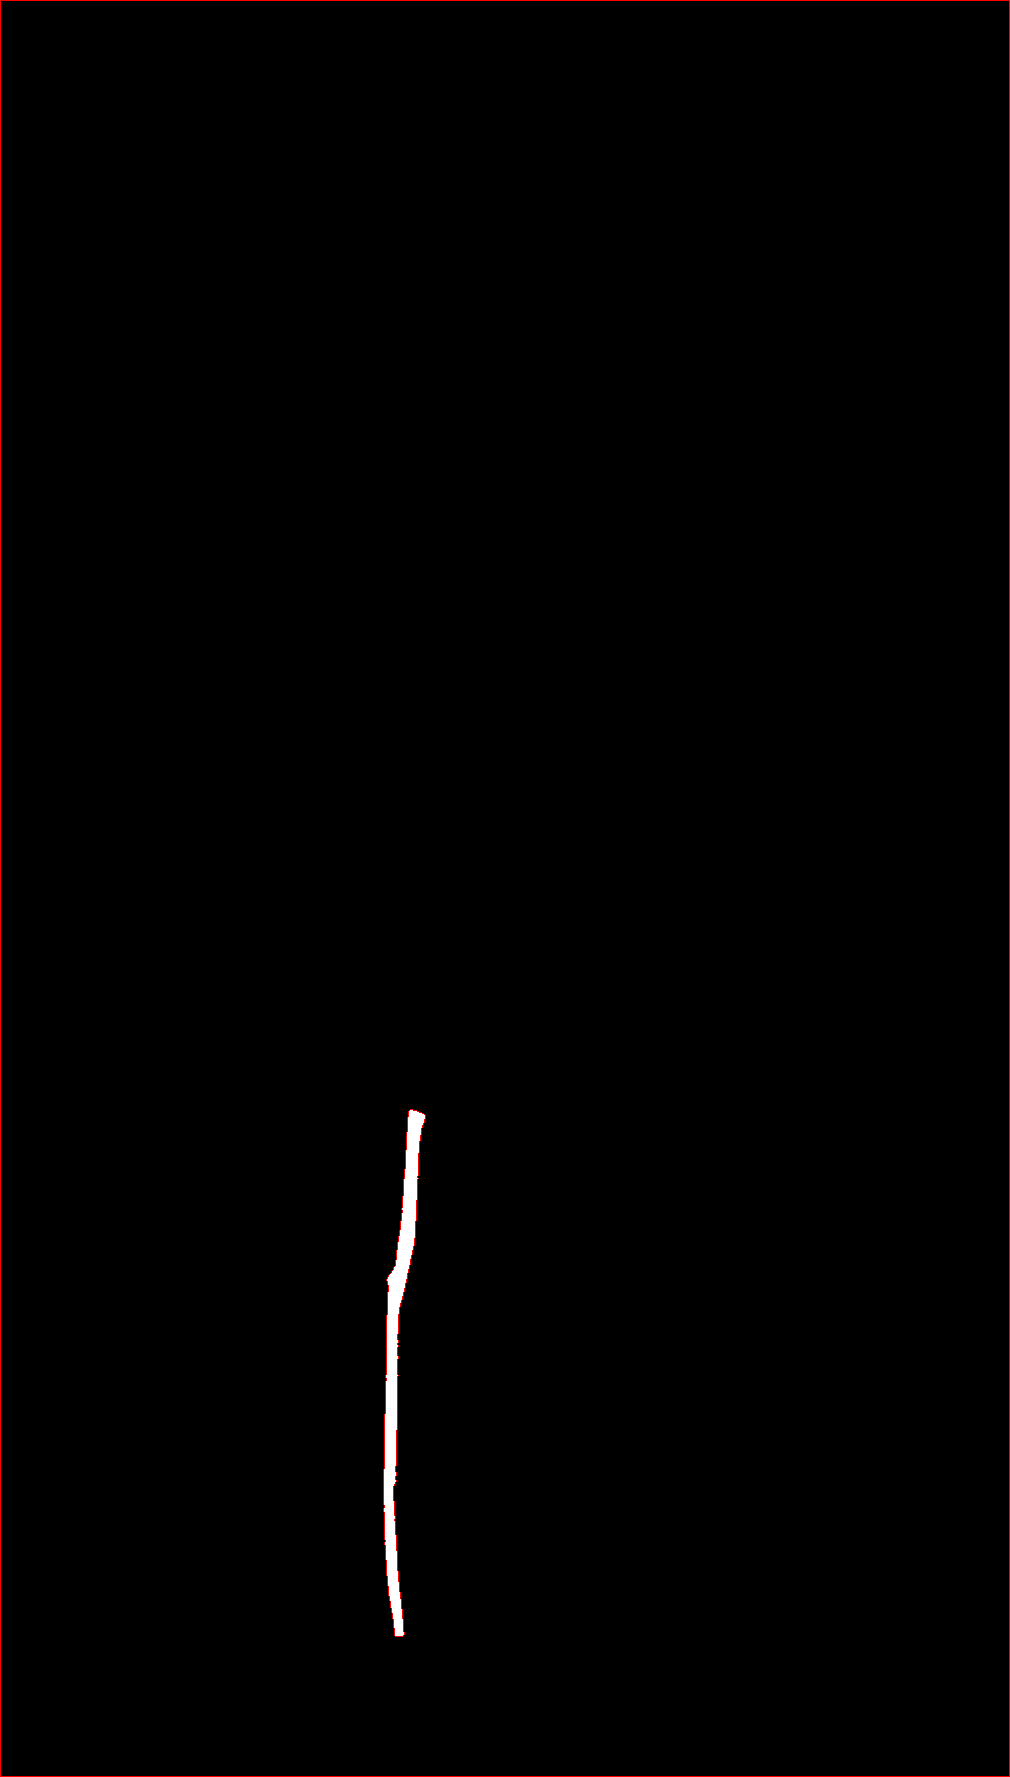
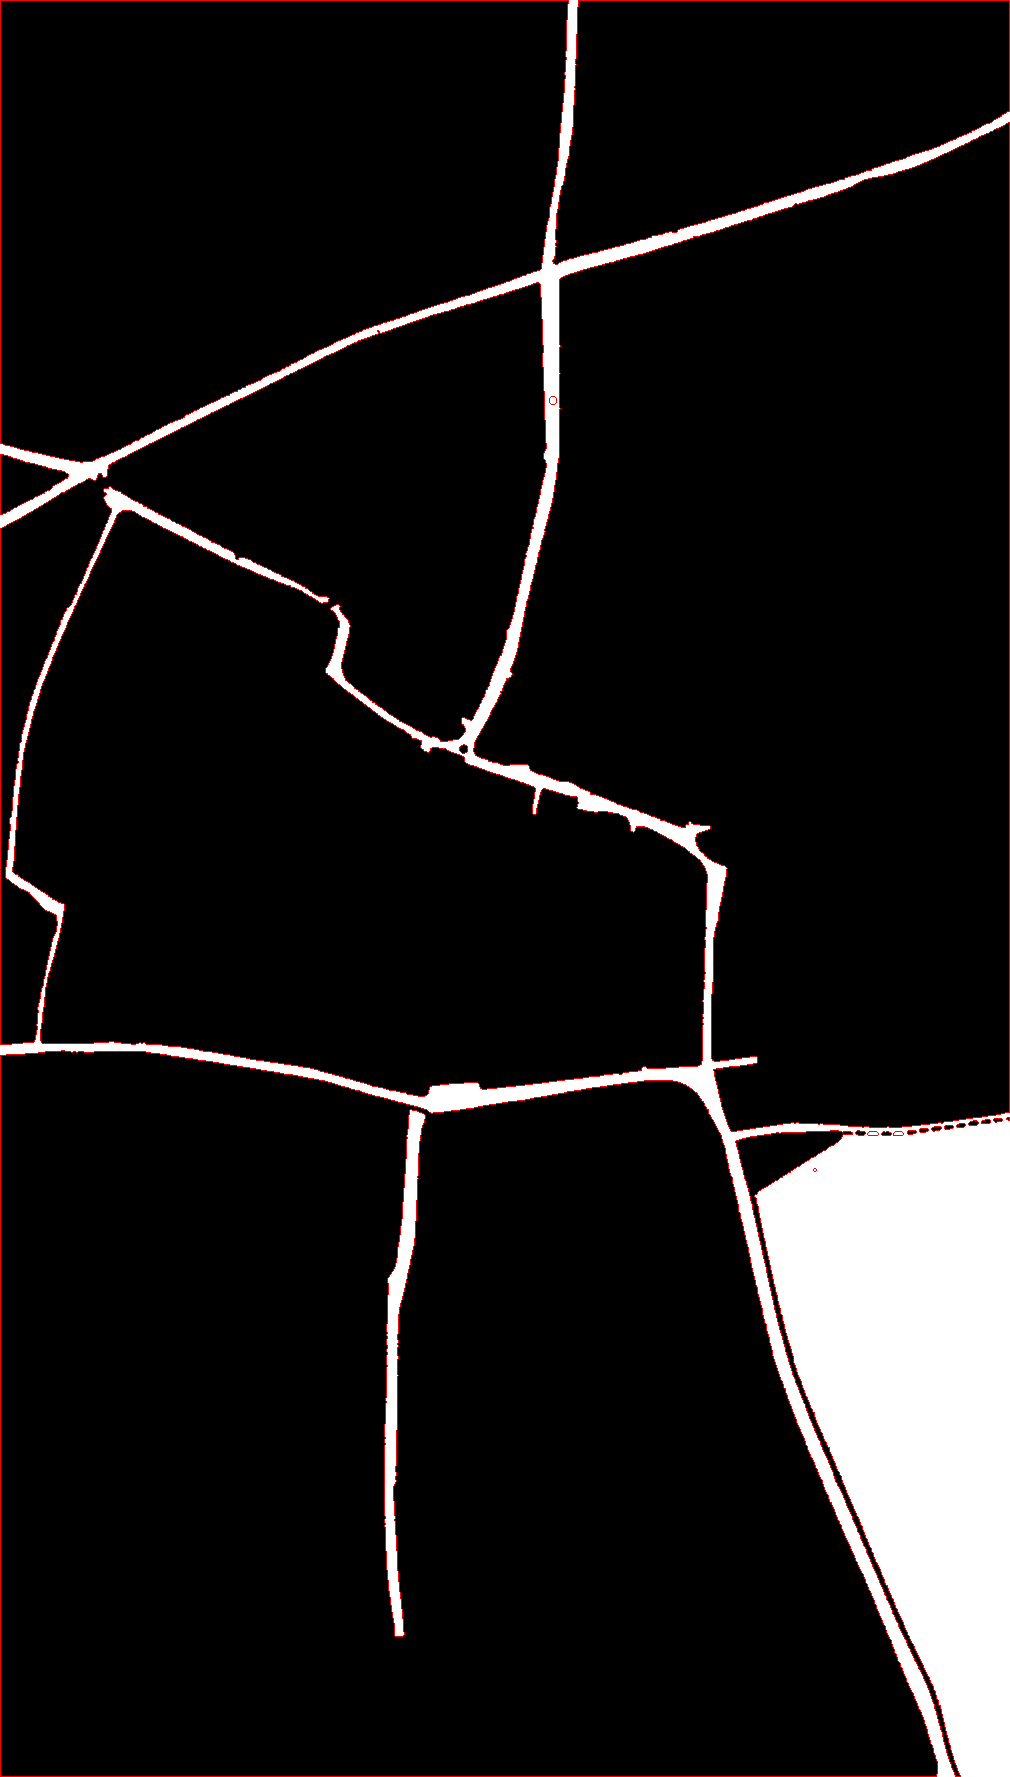
Improved mask_roads function
EXPERIMENTAL switch enables contour shape analysis

diff --git a/desCartes.py b/desCartes.py
@@ -47,7 +47,10 @@ from patch_linestrings import merge_groups
 # the displayed coordinates and then paste them below. Repeat for the north-east corner.
 EXTENT_SOUTHWEST_LAT, EXTENT_SOUTHWEST_LNG = 51.95244893871006, -1.7468378073656643
 EXTENT_NORTHEAST_LAT, EXTENT_NORTHEAST_LNG = 51.95504242639973, -1.7415778411414253
+# LOCATION_NAME = 'longborough'
 LOCATION_NAME = 'tormarton'
+
+EXPERIMENTAL = True # Try experimental image processing?
 
 RASTER_TILE_KEY = 'ySlCyGP2kmmfm9Dgtiqj' # TO USE THE URL GIVEN BELOW, GET YOUR OWN KEY FROM https://cloud.maptiler.com/account/keys/
 RASTER_TILE_URL = 'https://api.maptiler.com/tiles/uk-osgb10k1888/{z}/{x}/{y}.jpg?key=' + RASTER_TILE_KEY
@@ -92,7 +95,7 @@ _, result_binary = cv2.threshold(raster_image_gray, 200, 255, cv2.THRESH_BINARY)
 
 if SHOW_IMAGES:
     cv2.imshow("Original raster binary", result_binary)
-    cv2.waitKey(0)
+    # cv2.waitKey(0)
 
 window = 0
 def erase_areas(image, factor, closed = False, black = False, circles = False, contours = True, subtract = False):
@@ -141,53 +144,74 @@ def erase_areas(image, factor, closed = False, black = False, circles = False, c
         
     return image
 
-### EXPERIMENTAL - UNDER DEVELOPMENT
-def detect_roads(img):
-    _, img = cv2.threshold(img, 200, 255, cv2.THRESH_BINARY)
-    # Find contours
-    contours, hierarchy = cv2.findContours(img, cv2.RETR_LIST, cv2.CHAIN_APPROX_SIMPLE)
+def mask_roads(img):
+    global MAX_ROAD_WIDTH, MIN_ROAD_WIDTH
+    _, img = cv2.threshold(img, 220, 255, cv2.THRESH_BINARY)
     result = np.zeros(img.shape[:2], dtype=np.uint8)
     raster_image_contours = cv2.cvtColor(img, cv2.COLOR_GRAY2BGR)
+    
+    ## TO DO
+    # Close white gaps in dashed lines, to separate tracks from adjacent areas (see tormarton & longborough)
+    # The following code is too crude and makes spurious holes
+    # kernel = cv2.getStructuringElement(cv2.MORPH_RECT, (3, 3))
+    # img = cv2.erode(img, kernel, iterations=1)
+    # img = cv2.dilate(img, kernel, iterations=1)
+    
+    # Find contours
+    contours, hierarchy = cv2.findContours(img, cv2.RETR_LIST, cv2.CHAIN_APPROX_SIMPLE)
     # Loop through each contour
     for cnt in contours:
         # Calculate aspect ratio
-        rect = cv2.minAreaRect(cnt)
-        width, height = rect[1]
+        width, height = cv2.minAreaRect(cnt)[1]
         if width == 0 or height == 0:
-            aspect_ratio = 99
+            continue # Reject contour
         else:
             aspect_ratio = min(width, height) / max(width, height)
-        
-        # Calculate area of contour and its convex hull
-        contour_area = cv2.contourArea(cnt)
-        hull = cv2.convexHull(cnt)
-        hull_area = cv2.contourArea(hull)
-        
-        if (hull_area > 0 and contour_area / hull_area < 0.15) or aspect_ratio < .15:
-            # Draw the contour on the original image
+            
+        if aspect_ratio < .15 and min(width, height) <= 2 * MAX_ROAD_WIDTH:
+            # Green contour - possibly straight road section
             cv2.drawContours(result, [cnt], -1, (255, 255, 255), -1)
-            cv2.drawContours(raster_image_contours, [cnt], -1, (0, 0, 255), -1)
-    cv2.imshow("Hull Roads", raster_image_contours)
-    cv2.imwrite(os.path.join(OUTPUTDIR, 'hull_roads.png'), raster_image_contours)
+            cv2.drawContours(raster_image_contours, [cnt], -1, (0, 255, 0), -1)
+            
+        else:
+            # Calculate area of contour and its convex hull
+            contour_area = cv2.contourArea(cnt)
+            hull = cv2.convexHull(cnt)
+            hull_area = cv2.contourArea(hull)
+        
+            if hull_area == 0:
+                # Draw yellow rejected contour on the original image
+                cv2.drawContours(raster_image_contours, [cnt], -1, (0, 255, 255), -1)
+            elif contour_area > 2 * MIN_ROAD_WIDTH * MAX_ROAD_WIDTH and contour_area / hull_area < 0.5:
+                print(contour_area, hull_area)
+                # Draw the red contour on the original image
+                cv2.drawContours(result, [cnt], -1, (255, 255, 255), -1)
+                cv2.drawContours(raster_image_contours, [cnt], -1, (0, 0, 255), -1)
+            else: # Blue for hull rejection
+                cv2.drawContours(raster_image_contours, [cnt], -1, (255, 0, 0), -1)
+                
+    cv2.imshow("Road Mask", raster_image_contours)
+    cv2.imwrite(os.path.join(OUTPUTDIR, 'road_mask.png'), raster_image_contours)
     cv2.waitKey(0)
     # Dilate the result by 2 pixels
     kernel = np.ones((2, 2), np.uint8)
     result = cv2.dilate(result, kernel, iterations=1)
     return result
 
-mask = detect_roads(raster_image_gray)
-## The following line shows promise but needs further refinement before incorporation into workflow
-# result_binary = cv2.bitwise_and(result_binary, result_binary, mask=mask)
-
-## TO DO: Following line is too blunt - test shapes for squareness before erasure, perhaps by comparing shape area with the area of its convex hull
-result_binary = erase_areas(result_binary, 500) # Erase white shapes
-result_binary = erase_areas(result_binary, 2, contours = False, black = True) # Erase black dots
-result_binary = erase_areas(result_binary, 50, closed = True, black = True) # Erase black shapes
-result_binary = erase_areas(result_binary, 100, black = True) # Erase black shapes
-result_binary = erase_areas(result_binary, 200, black = True) # Erase black shapes
-result_binary = erase_areas(result_binary, 2 * MAX_ROAD_WIDTH, contours = False, subtract = True) # Erase large white areas
-result_binary = erase_areas(result_binary, 2/3 * MIN_ROAD_WIDTH, contours = False) # Erase narrow white areas
-result_binary = erase_areas(result_binary, 500) # Erase white shapes
+if EXPERIMENTAL:
+    mask = mask_roads(raster_image_gray)
+    result_binary = cv2.bitwise_and(result_binary, result_binary, mask=mask)
+    
+else:
+    ## TO DO: Following line is too blunt - test shapes for squareness before erasure, perhaps by comparing shape area with the area of its convex hull
+    result_binary = erase_areas(result_binary, 500) # Erase white shapes
+    result_binary = erase_areas(result_binary, 2, contours = False, black = True) # Erase black dots
+    result_binary = erase_areas(result_binary, 50, closed = True, black = True) # Erase black shapes
+    result_binary = erase_areas(result_binary, 100, black = True) # Erase black shapes
+    result_binary = erase_areas(result_binary, 200, black = True) # Erase black shapes
+    result_binary = erase_areas(result_binary, 2 * MAX_ROAD_WIDTH, contours = False, subtract = True) # Erase large white areas
+    result_binary = erase_areas(result_binary, 2/3 * MIN_ROAD_WIDTH, contours = False) # Erase narrow white areas
+    result_binary = erase_areas(result_binary, 500) # Erase white shapes
     
 # Skeletonize the binary image, find contours, and convert to LineStrings
 print('Skeletonize the binary image and find contours ...')    
